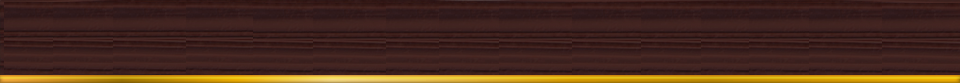
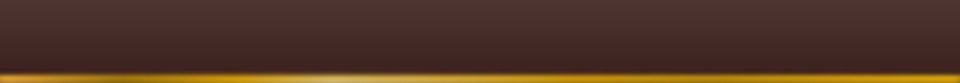
+ Hình nền top bị dãn + Nút Free Mode và Real Mode được sửa lại

diff --git a/tris5/game.php b/tris5/game.php
@@ -158,7 +158,7 @@
     </script>
 </head>
 
-<body oncontextmenu="return false">
+<body oncontextmenu="return true">
 	<!-- HEADER -->
 	<div id="header" style="display:none">
 	</div>
